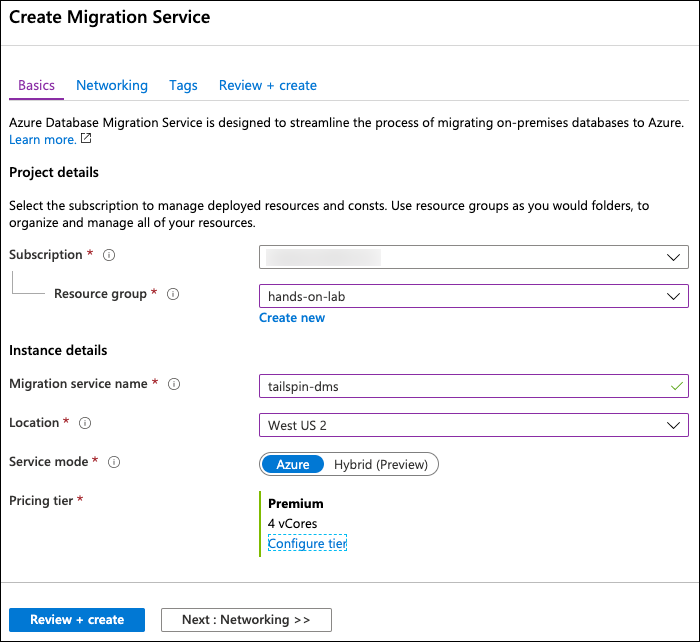
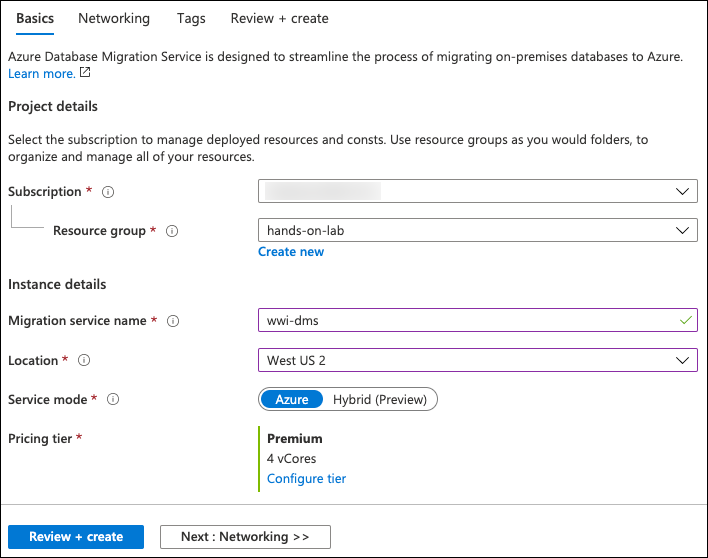
WWI rebranding

diff --git a/Hands-on lab/Manual-resource-setup.md b/Hands-on lab/Manual-resource-setup.md
@@ -384,7 +384,7 @@ In this task, you provision an instance of the Azure Database Migration Service 
 
    - Instance details:
 
-     - **Migration service Name**: Enter `tailspin-dms`
+     - **Migration service Name**: Enter `wwi-dms`
      - **Location**: Select the location you are using for resources in this hands-on lab.
      - **Service mode**: Select **Azure**.
      - **Pricing tier**: Select **Configure tier**, choose **Premium**, and select **Apply**.
